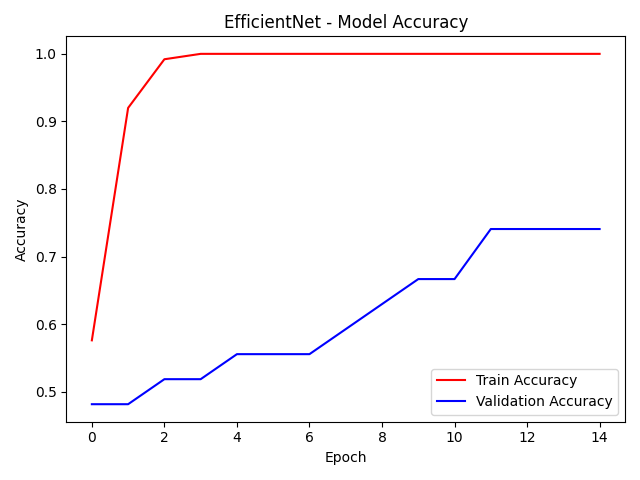
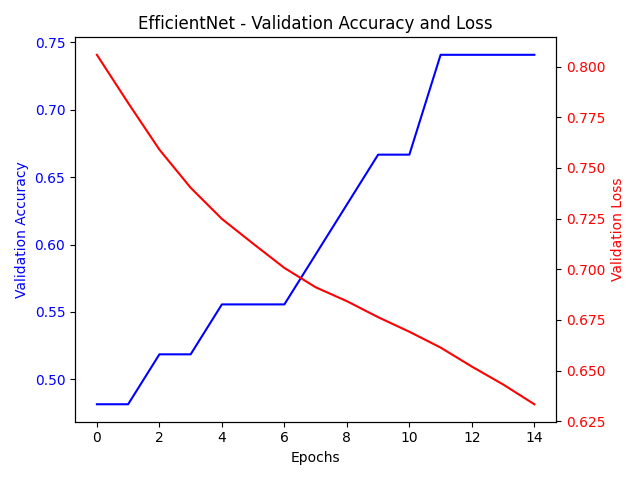
Enhance script for more descriptive graphs and images.

diff --git a/src/submission/sota_EfficientNet.py b/src/submission/sota_EfficientNet.py
@@ -22,6 +22,7 @@ MODEL_PATH = f"{ROOT_DIR}/models/EfficientNet_model.h5"
 
 import matplotlib.pyplot as plt
 import seaborn as sns
+import cv2
 from tensorflow.keras import layers, models
 from tensorflow.keras.applications import EfficientNetB0
 from sklearn.metrics import confusion_matrix, classification_report
@@ -125,6 +126,8 @@ class EfficientNetBinaryClassifier:
         self.y_pred_classes = []
         self.y_true = []
 
+
+
         for images, labels in self.test_data:
             predictions = self.model.predict(images)
             pred_classes = (predictions > 0.5).astype(int).flatten()
@@ -132,14 +135,17 @@ class EfficientNetBinaryClassifier:
             self.y_true.extend(labels.numpy())
 
     def plot_performance(self):
-        os.makedirs(f"{ROOT_DIR}/results/sota", exist_ok=True)
         plt.figure()
-        plt.plot(self.history.history['accuracy'], label='Train Accuracy', color='red')
-        plt.plot(self.history.history['val_accuracy'], label='Validation Accuracy', color='blue')
-        plt.legend()
-        plt.title('EfficientNet - Model Accuracy')
-        plt.xlabel('Epoch')
-        plt.ylabel('Accuracy')
+        fig, ax1 = plt.subplots()
+        ax1.set_xlabel('Epochs')
+        ax1.set_ylabel('Validation Accuracy', color='blue')
+        ax1.plot(self.history.history['val_accuracy'], color='blue')
+        ax1.tick_params(axis='y', labelcolor='blue')
+        ax2 = ax1.twinx()
+        ax2.set_ylabel('Validation Loss', color='red')
+        ax2.plot(self.history.history['val_loss'], color='red')
+        ax2.tick_params(axis='y', labelcolor='red')
+        plt.title('EfficientNet - Validation Accuracy and Loss')
         plt.tight_layout()
         plt.savefig(f"{ROOT_DIR}/results/sota/efficient_net_accuracy_curve.png")
         if DISPLAY_PLOTS:
@@ -158,6 +164,48 @@ class EfficientNetBinaryClassifier:
         if DISPLAY_PLOTS:
             plt.show()
         plt.close()
+
+
+    def plot_epoch_metrics(self):
+        """
+        Calculates and plots training precision, recall, and F1 score over epochs.
+        Requires `self.history.history['accuracy']` and `self.history.history['loss']` to be populated.
+        """
+        from sklearn.metrics import precision_score, recall_score, f1_score
+        import math
+
+        precision_vals = []
+        recall_vals = []
+        f1_vals = []
+
+        for epoch in range(len(self.history.history['accuracy'])):
+            y_true_epoch = []
+            y_pred_epoch = []
+            for images, labels in self.train_data:
+                predictions = self.model.predict(images, verbose=0)
+                pred_classes = (predictions > 0.5).astype(int).flatten()
+                y_pred_epoch.extend(pred_classes)
+                y_true_epoch.extend(labels.numpy())
+                break  # one batch for faster estimation
+
+            precision_vals.append(precision_score(y_true_epoch, y_pred_epoch))
+            recall_vals.append(recall_score(y_true_epoch, y_pred_epoch))
+            f1_vals.append(f1_score(y_true_epoch, y_pred_epoch))
+
+        epochs = range(len(precision_vals))
+        plt.figure()
+        plt.plot(epochs, precision_vals, 'bo-', label='Training Precision')
+        plt.plot(epochs, recall_vals, 'go-', label='Training Recall')
+        plt.plot(epochs, f1_vals, 'ro-', label='Training F1 Score')
+        plt.title('Precision, Recall, and F1 Score Over Epochs')
+        plt.xlabel('Epochs')
+        plt.ylabel('Score')
+        plt.legend()
+        plt.grid(True)
+        if DISPLAY_PLOTS:
+            plt.show()
+        plt.savefig(f"{ROOT_DIR}/results/sota/efficient_net_metrics_over_epochs.png")
+
 
     def plot_confusion_matrix(self):
         """
@@ -202,24 +250,65 @@ class EfficientNetBinaryClassifier:
         self.model = tf.keras.models.load_model(path)
         print(f"Model loaded from {path}")
 
-    def plot_sample_predictions(self, num_images=18):
-        fig, axes = plt.subplots(nrows=num_images // 3, ncols=3, figsize=(10, 20))
+    def create_no_sample_found_image(self, text: str = "No Sample Found"):
+        blank_image = np.zeros((self.img_size[0], self.img_size[1], 3), dtype=np.uint8)
+        cv2.putText(blank_image, text, (24, 118), cv2.FONT_HERSHEY_SIMPLEX, .6, (255, 255, 255), 2)
+        return blank_image
+
+    def plot_sample_predictions(self, num_images=12):
+        samples = []
         index = 0
-
         for image, label in self.test_data.unbatch():
-            if index >= num_images:
-                break
-
-            image_np = image.numpy().astype("uint8")
-            label_int = int(label.numpy().item())
-            pred_label = self.y_pred_classes[index]
-
-            ax = axes.flat[index]
-            ax.imshow(image_np)
-            ax.set_title(f'EfficientNet - Actual: {self.class_names[label_int]}\nPredict: {self.class_names[pred_label]}', fontsize=10)
-            ax.axis('off')
-
+            samples.append((image.numpy().astype('uint8'), int(label.numpy().item()), self.y_pred_classes[index]))
             index += 1
+
+        picked_sample_indexes = set()
+
+        def pick_sample(label_int, pred_label):
+            for index, sample in enumerate(samples):
+                image, label, pred = sample
+                if label == label_int and pred == pred_label and index not in picked_sample_indexes:
+                    picked_sample_indexes.add(index)
+                    return image, label, pred
+            return self.create_no_sample_found_image(), label_int, pred_label
+
+        picked_samples = [
+            pick_sample(0, 0),
+            pick_sample(0, 0),
+            pick_sample(0, 0),
+            pick_sample(0, 0),
+            pick_sample(1, 1),
+            pick_sample(1, 1),
+            pick_sample(1, 1),
+            pick_sample(1, 1),
+            pick_sample(0, 1),
+            pick_sample(0, 1),
+            pick_sample(1, 0),
+            pick_sample(1, 0),
+        ]
+
+        fig, axes = plt.subplots(nrows=num_images // 4, ncols=4, figsize=(10, 10))
+
+        for i, sample in enumerate(picked_samples):
+            image, label_int, pred_label = sample
+            ax = axes.flat[i]
+            ax.imshow(image)
+            label_class_name = self.class_names[label_int]
+            pred_class_name = self.class_names[pred_label]
+            is_false_positive = label_int == 0 and pred_label == 1
+            is_false_negative = label_int == 1 and pred_label == 0
+            title = f"\nActual: {label_class_name}\nPredict: {pred_class_name}\n"
+            title += \
+                "(True Negative)" if label_int == 0 and pred_label == 0 else \
+                "(True Positive)" if label_int == 1 and pred_label == 1 else \
+                "(False Negative)" if is_false_negative else \
+                "(False Positive)" if is_false_positive else ""
+            ax.set_title(
+                title,
+                fontsize=12,
+                color='red' if is_false_negative else 'blue' if is_false_positive else 'black'
+            )
+            ax.axis('off')
 
         plt.tight_layout()
         plt.savefig(f"{ROOT_DIR}/results/sota/efficient_net_sample_predictions.png")
@@ -239,6 +328,7 @@ if __name__ == "__main__":
     classifier.train_model()
     classifier.fine_tune_model()
     classifier.plot_performance()
+    classifier.plot_epoch_metrics()
     classifier.save_model(MODEL_PATH)
 
     classifier.evaluate_model()
